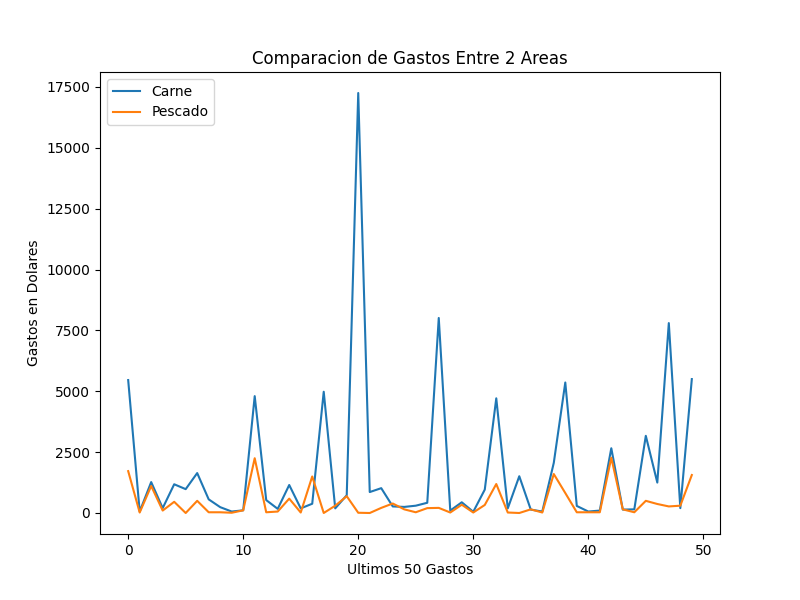
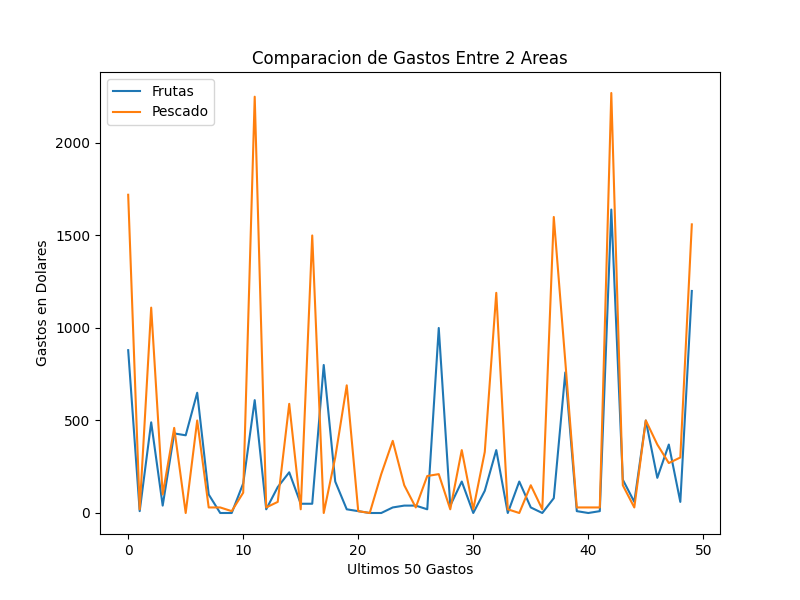
Remove .pyc files and resolve merge conflicts(xd)

diff --git a/templates/pages/product_info.html b/templates/pages/product_info.html
@@ -7,11 +7,14 @@
             <img src="{{ url_for('static', filename='img/charts/mtn_unic_prod_chart.png') }}" alt="" class="landing-main-logo">
             <div class="desc-container">
                 <h1 class="desc-title">
-                    EMPIEZA A GESTIONAR TUS GASTOS CON {{ app_name.upper() }}!
+                    INFORMACION DETALLADA DE: {{ app_section.upper() }}
                 </h1>
-                <span class="desc-content">
-                    Lorem ipsum dolor sit amet consectetur adipisicing elit. Veniam, illo, velit quaerat at eius enim, eum accusantium consequuntur tenetur inventore quis doloremque recusandae! Vero provident molestias pariatur voluptates! Fugit, delectus.
-                </span>
+                <section class="desc-data">
+                    {% for label, value in data.items() %}
+                        {% include "components/dataGroup.html" %}
+                    {% endfor %}
+                </section>
+
             </div>
         </section>
     </main>

diff --git a/static/css/style.css b/static/css/style.css
@@ -259,8 +259,6 @@ main.main-market {
     }
 }
 
-
-
 .spinner-overlay {
     position: fixed;
     top: 0;
@@ -297,4 +295,28 @@ main.main-market {
     width: 100%;
     text-align: center;
     align-items: center;
+}
+
+section.desc-data {
+    display: flex;
+    flex-direction: column;
+    gap: 1rem;
+}
+
+.data-group {
+    height: 2.5em;
+    display: flex;
+    flex-direction: column;
+}
+
+span.data-text {
+    color: #023e8a;
+    font-size: 1em;
+    font-weight: 500;
+}
+
+span.data-value {
+    font-size: 1.2em;
+    font-style: italic;
+    font-weight: 500;
 }

diff --git a/templates/components/dataGroup.html b/templates/components/dataGroup.html
@@ -1,0 +1,8 @@
+<div class="data-group">
+    <span class="data-text">
+        {{ label }}:
+    </span>
+    <span class="data-value">
+        $US {{ value }}
+    </span>
+</div>

diff --git a/models/Market_expenses.py b/models/Market_expenses.py
@@ -56,26 +56,32 @@ class Market_expenses(db.Model):
         plt.close()
 
     @classmethod
-    def get_all_data_from_item(cls, item1):
+    def get_all_data_from_item(cls, item1, limit):
         column_1 = cls.get_column_name_by_item_selected(item1)
 
         values_column = []
 
-        data = db.session.query(cls).with_entities(getattr(cls, column_1)).limit(40).all()
+        data = db.session.query(cls).with_entities(getattr(cls, column_1)).limit(limit).all()
 
         for value in data:
             values_column.append(value[0])
 
         plt.figure(figsize=(8,6))
 
-        plt.bar(values_column, label=item1, height=values_column)
+        plt.bar(list(range(0,limit)), label=item1, height=values_column)
 
-        plt.title('Comparacion de Gastos Entre 2 Areas')
+        plt.title(f'Analisis de {item1}')
         plt.legend(loc='upper left')
         plt.ylabel("Gastos en Dolares")
-        plt.xlabel("Ultimos 50 Gastos") 
+        plt.xlabel(f'Ultimos {limit} Gastos') 
         plt.savefig('./static/img/charts/mtn_unic_prod_chart.png')
         plt.close()
+
+        average_value = sum(values_column) / len(values_column)
+        max_expense = max(values_column)
+        min_expense = min(values_column)
+
+        return {'Valor Promedio' : average_value, 'Valor Maximo' : max_expense, 'Valor Minimo' : min_expense} 
 
     def get_column_name_by_item_selected(item):
 

diff --git a/app.py b/app.py
@@ -88,17 +88,19 @@ def market():
 def product_info():
 
     item1 = request.args.get('vid', 'Carne')
+    limit = request.args.get('limit', 10)
+
+    try:
+        response = Market_expenses.get_all_data_from_item(item1, limit)
+    except:
+        abort(404)
 
     page_vars = {
         **app_config,
         'nav_links' : links,
-        'app_section' : f'{item1}' 
+        'app_section' : f'{item1}',
+        'data' : response,
     }
-
-    try:
-        Market_expenses.get_all_data_from_item(item1)
-    except:
-        abort(404)
 
     return render_template('pages/product_info.html',**page_vars)
 
